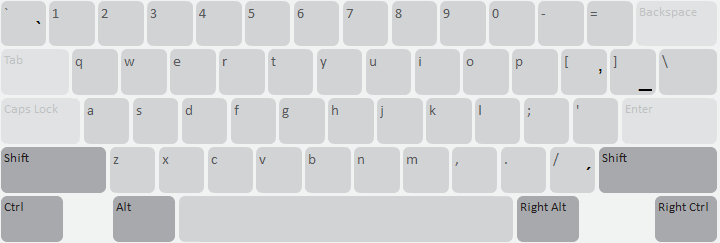
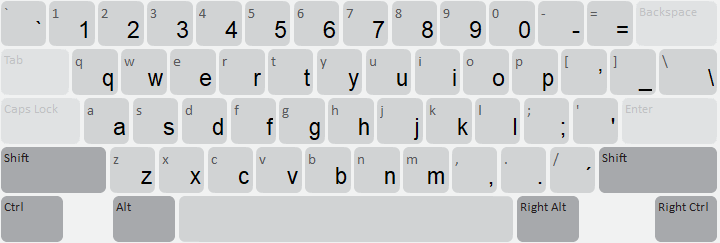
Updated OSK, added ability to type / while using google drive
updated documentation

diff --git a/release/fv/fv_nlha7kapmxtsin/source/welcome/welcome.htm b/release/fv/fv_nlha7kapmxtsin/source/welcome/welcome.htm
@@ -31,6 +31,9 @@ a:active {	color: rgb(102,117,184); text-decoration:none;}
 								<li>To type the low line accent use the Right Bracket Key ] — g̱ is typed g then Right Bracket ]</li>
 							</ul>
 						<li>The original values of the punctuation keys can be typed by holding down the Right-Alt or Option key. The Slash / is typed Right-Alt+Slash (Windows) Option+Slash (Mac).</li>
+              <ul>
+                  <li><b>NOTE</b>: To type / while using Google Drive, use <strong>shift</strong>, <strong>Right-Alt</strong>, then <strong>Slash /</strong></li>
+              </ul>
 					</ul>
           <h2>Unicode Fonts</h2>
 						<p>The following fonts have been installed on your computer: <strong>Aboriginal Sans, Aboriginal Serif.</strong> Please use these fonts when typing in your language as they have been specially built to represent your language as accurately as possible. </p>

diff --git a/release/fv/fv_nlha7kapmxtsin/source/help/fv_nlha7kapmxtsin.php b/release/fv/fv_nlha7kapmxtsin/source/help/fv_nlha7kapmxtsin.php
@@ -28,6 +28,9 @@ This keyboard is designed for the <b>Nlha7kapmxtsin</b> language of the BC Inter
 								<li>To type the low line accent use the Right Bracket Key ] — g̱ is typed g then Right Bracket ]</li>
 							</ul>
 						<li>The original values of the punctuation keys can be typed by holding down the Right-Alt or Option key. The Slash / is typed Right-Alt+Slash (Windows) Option+Slash (Mac).</li>
+							<ul>
+                  				<li><b>NOTE</b>: To type / while using Google Drive, use <strong>shift</strong>, <strong>Right-Alt</strong>, then <strong>Slash /</strong></li>
+              				</ul>
 					</ul>
 					<h2>Unicode Fonts</h2>
 						<p>The following fonts have been installed on your computer: <strong>Aboriginal Sans, Aboriginal Serif.</strong> Please use these fonts when typing in your language as they have been specially built to represent your language as accurately as possible. </p>
